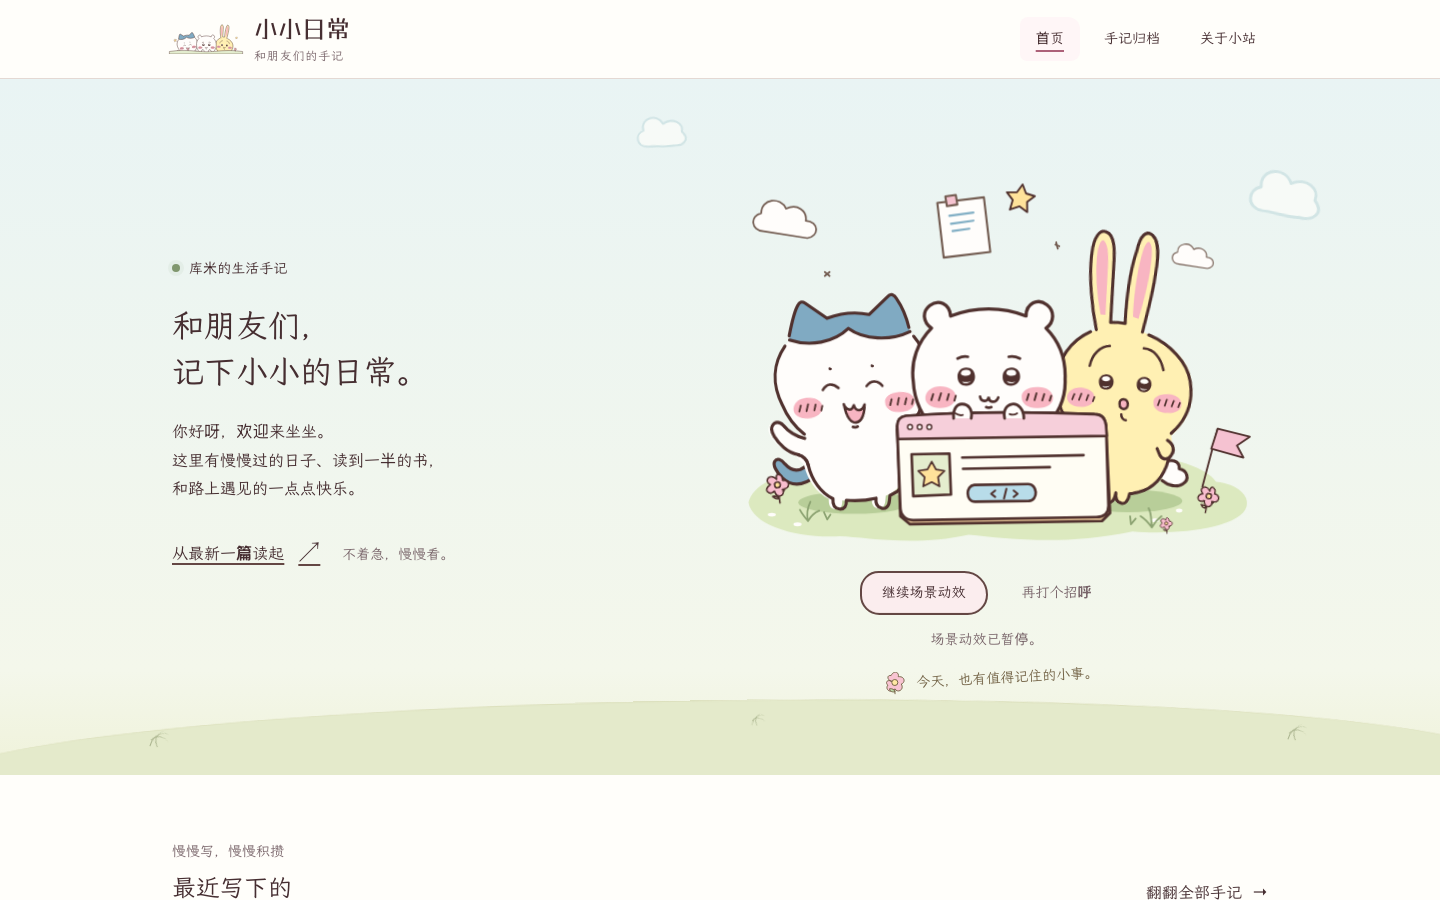
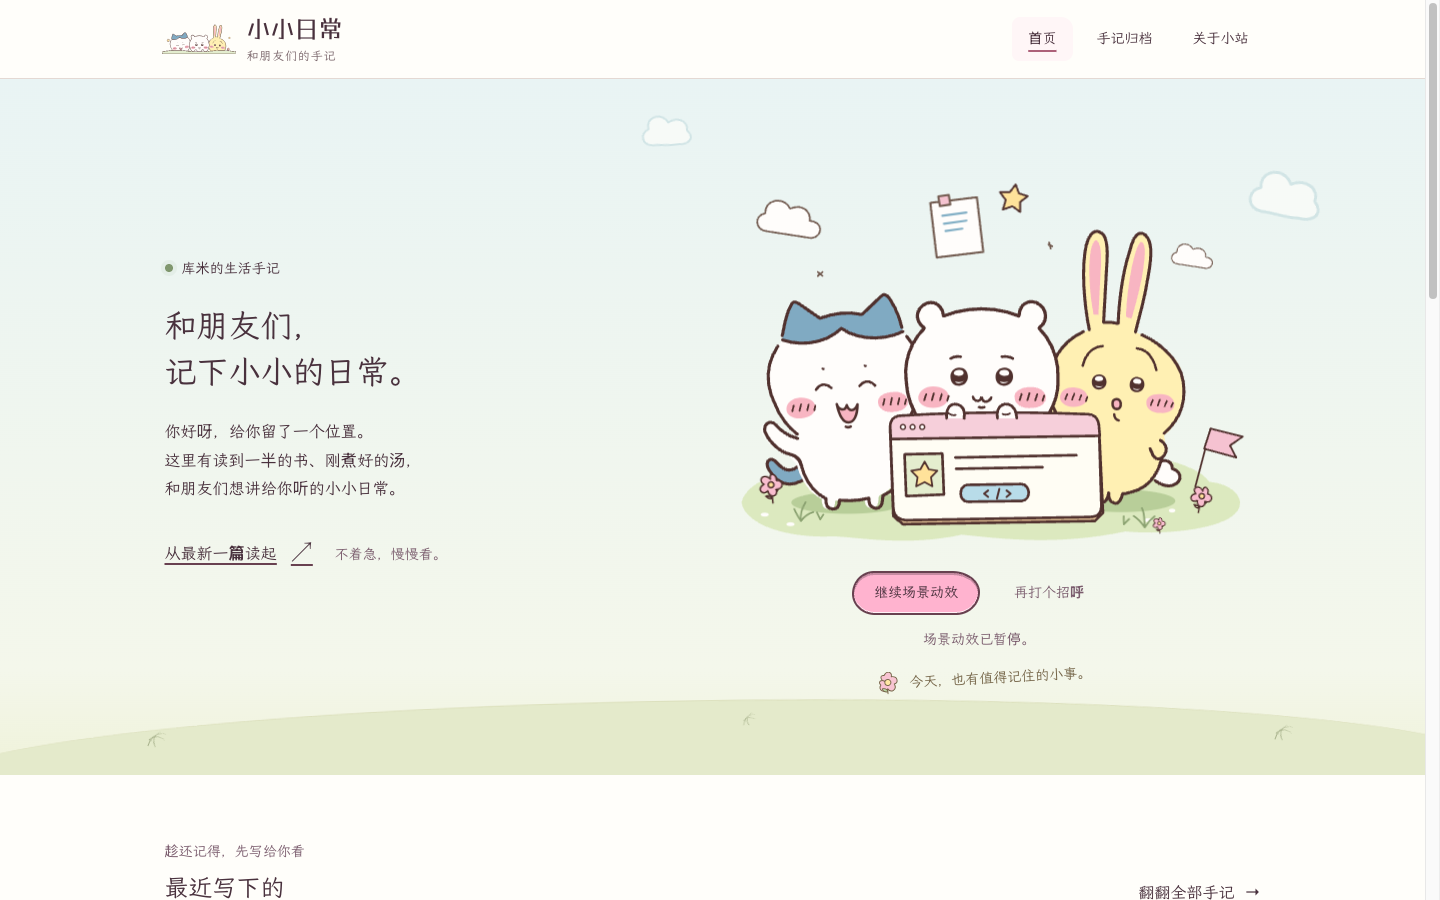
docs: 更新项目说明与文档站截图
更新项目定位、现有组件与素材能力说明，保留本地试用、兼容性和许可边界。
同步文档站与博客截图、截图来源说明及包描述，便于从仓库入口了解和接入项目。

验证：格式、文档同步和设计约束检查通过；文档站与实际安装包验收通过。

diff --git a/docs/README.md b/docs/README.md
@@ -1,12 +1,16 @@
 # 组件文档
 
+欢迎来到 Yahha 星球。朋友们给你的点子留了个位置，一起挑几个组件，把故事搭进页面。
+
+Yahha UI 是一套漫画手账风 React 组件库，面向个人博客、个人主页与内容网站。这里收录组件示例、API 与接入说明，从第一个按钮开始，逐步搭出自己的页面。
+
 首次了解这套组件库，可先看[项目介绍与实际界面](../README.md)；[完整博客](../examples/blog/README.md)、[静态部署](deployment.md)与[素材分发范围](assets-and-distribution.md)分别说明场景接入、网站输出和素材来源。
 
-组件视觉总览（站内路由 `#/components`）将 29 个 UI 组件按通用、排版、布局、表单、内容展示、导航、浮层、反馈分为八组；ThemeProvider 作为独立的主题配置入口。先看真实样式小样，再进入对应示例与 API；搜索和分类保留在总览 URL，浏览器返回后可以接着查看。页面复用 `component-catalog.ts` 的目录与分类，不维护另一份组件清单。
+组件总览（站内路由 `#/components`）将 29 个 UI 组件按通用、排版、布局、表单、内容展示、导航、浮层、反馈分为八组；ThemeProvider 作为独立的主题配置入口。先看真实样式小样，再进入对应示例与 API；搜索和分类保留在总览 URL，浏览器返回后可以接着查看。页面复用 `component-catalog.ts` 的目录与分类，不维护另一份组件清单。
 
 在仓库根目录完成 `npm ci` 后运行 `npm run dev`，打开终端输出的本地地址。将本文的 `#/...` 追加在该地址后即可访问相应交互页面；Markdown 链接直接指向仓库文件，便于在 GitHub 阅读。站内提供 30 个独立组件文档入口（29 个 UI 组件与 ThemeProvider）、95 个实时 TSX 示例、API 表格、入门、样式与状态场景指南。本文索引覆盖 30 份组件 Markdown，每个文档入口都有对应文件。组合示例包括[文章编辑与管理源码](../playground/src/examples/scenes/ArticleActions.tsx)（`#/guides/states?section=article-actions`）和[个人博客归档源码](../playground/src/examples/scenes/BlogArchive.tsx)（`#/guides/states?section=archive`）。
 
-[设计语言](design-language.md) 说明漫画手账的深墨轮廓，以及按钮、白底字段、纸签、栏目和便笺浮层的结构差异。文档站统一呈现奶白、暖墨与轻粉的默认语言；三套角色配色在 ThemeProvider 文档中作为可选预设展示。
+[设计语言](design-language.md) 说明漫画手账的深墨轮廓，以及按钮、白底字段、纸签、栏目和便笺浮层的结构差异。文档站以天空蓝组织场景，以白纸、暖墨与轻粉承载阅读和操作；三套角色配色在 ThemeProvider 文档中作为可选预设展示。
 
 设计规范（`#/guides/design-baseline`，见[表单组合源码](../playground/src/examples/design/DesignBaseline.tsx)与[阅读组合源码](../playground/src/examples/design/DesignReading.tsx)）用默认组件展示表单状态、36 / 44 / 52px 按钮尺度与 16px 正文阅读。两份自包含 TSX 不重写组件外观；可操作状态、原始代码与完整接入同时提供。
 
@@ -22,7 +26,7 @@
 
 完整小站在同仓库的[博客示例](../examples/blog/README.md)，从根目录运行 `npm run dev:blog`；自己的应用则安装 `.tgz`，不需要复制整个文档站或博客。
 
-小图标、状态场景和欢迎动效见“小日常 SVG”（`#/guides/artwork`，[指南源码](../playground/src/docs/artwork-guide.tsx)）。基础包不包含这些可选素材：静态 SVG 可直接作为图片使用；动效 SVG 内置播放，外部按钮无法控制其内部时间线；需要暂停当前帧或重播挥手时，复制该指南的完整欢迎示例与配套静态 SVG。现有动效遵循系统减少动效设置，实际等待结束时应切回静态图。素材来源与派生关系见[SVG 说明](../playground/src/examples/scenes/artwork/little-days/README.md)。
+小图标、状态场景和欢迎动效见“图标与插画”（`#/guides/artwork`，[指南源码](../playground/src/docs/artwork-guide.tsx)）。基础包不包含这些可选素材：静态 SVG 可直接作为图片使用；动效 SVG 内置播放，外部按钮无法控制其内部时间线；需要暂停当前帧或重播挥手时，复制该指南的完整欢迎示例与配套静态 SVG。现有动效遵循系统减少动效设置，实际等待结束时应切回静态图。素材来源与派生关系见[SVG 说明](../playground/src/examples/scenes/artwork/little-days/README.md)。
 
 ## 通用
 
@@ -67,12 +71,12 @@
 - [DropdownMenu](components/dropdown-menu.md)：可通过键盘操作的单层动作菜单，不承担值选择。
 
 - [Dialog](components/dialog.md)：受控模态弹窗、焦点和 Portal。
-- [Popover](components/popover.md)：带标题的非模态补充面板和短表单。
+- [Popover 弹出面板](components/popover.md)：带标题的非模态补充面板和短表单。
 - [Tooltip](components/tooltip.md)：视觉文字补充；沿用 Base UI 1.9 约定，触发器须有自身可访问名称。
 
 ## 反馈
 
-- [Alert](components/alert.md)：留在页面内的说明、结果与错误提示。
+- [Alert 提示条](components/alert.md)：留在页面内的说明、结果与错误提示。
 - [Toast](components/toast.md)：由调用方管理显示状态的提示消息。
 - [EmptyState](components/empty-state.md)：空内容、说明与操作插槽。
 - [Spinner](components/spinner.md)：带可读状态文字的加载指示。

diff --git a/README.md b/README.md
@@ -1,22 +1,26 @@
-# Yahha UI · 朋友们的组件小屋
+# Yahha UI
 
-给个人博客、个人主页和小型内容站点，一点轻盈、温柔的交互。
+**一起做，全宇宙最可爱的 UI 组件库。**
+
+欢迎来到 **Yahha 星球**。朋友们在这里搭界面、写手记，也给新来的你留了个位置。
+
+Yahha UI 是一套漫画手账风 React 组件库，适合博客、个人主页与内容网站。圆润的按钮、像纸签一样的标记，还有便笺般的弹出面板，都在这里等你动手。
 
 [开始使用](#构建与本地安装) · [组件文档](docs/README.md) · [完整博客示例](examples/blog/README.md) · [设计语言](docs/design-language.md) · [静态部署](docs/deployment.md)
 
-**0.0.1 本地试用中** · React / React DOM `^19.3.1` · 29 个 UI 组件与 ThemeProvider · 尚未发布 npm
+**v0.0.1 · 早期预览** · React / React DOM `^19.3.1` · 29 个 UI 组件与 ThemeProvider · 当前通过本地安装包试用，尚未发布 npm
 
-![Yahha UI 文档站首页：朋友们一起搭建小小的网站](docs/images/yahha-home.png)
+![Yahha UI 文档站首页：一起做全宇宙最可爱的 UI 组件库](docs/images/yahha-home.png)
 
-## 朋友们一起搭建、使用的小站
+## 把可爱，搭进你的世界
 
-白纸、暖墨、清亮粉色和浅蓝纸边，组成漫画手账的轮廓。软团按钮、白底字段、分类纸签、栏目墨线与便笺浮层各有用途；人物、天空和草地在入口与小场景里陪伴阅读。
+在这颗星球上，云朵邮局会收到没有署名的信，朋友们会一起帮迷路的小星星找路，也会给晚到的伙伴留一块饼干。界面用白纸、暖墨、清亮粉色和浅蓝纸边接住这些日常；组件各有用途，故事交给你来写。
 
 - **为内容网站准备**：阅读、分类、搜索、收藏与轻量表单可以组合成完整小站。[博客示例](examples/blog/README.md)提供库米的首页、手记归档与文章详情。
-- **组件本身也完整**：组件继承使用方字体，常规控件为 44px，Button / IconButton 有 36 / 44 / 52px 三档；键盘、原生表单、焦点与减少动效按实际组件能力处理。
+- **每次操作，都好好回应**：组件继承使用方字体，常规控件为 44px，Button / IconButton 有 36 / 44 / 52px 三档；键盘、原生表单、焦点与减少动效按实际组件能力处理。
 - **按需加入小场景**：静态 SVG、状态动效和可暂停的欢迎场景独立提供。基础组件不依赖角色图片，组件安装包不包含网站、字体或场景素材。
 
-## 从真实小样找到组件
+## 浏览组件
 
 文档站的组件总览位于 `#/components`，按八类展示现有 29 个 UI 组件，并单列 ThemeProvider 主题配置，共 30 个文档入口。小样进入对应文档后，可操作完整示例、展开代码并查阅 API；当前共 95 个同源 TSX 示例。
 
@@ -65,14 +69,14 @@ export default function App() {
   return (
     <ThemeProvider theme="chiikawa">
       <Button aria-pressed={saved} onClick={() => setSaved(!saved)}>
-        {saved ? '已收藏' : '收藏这篇文章'}
+        收藏这篇文章
       </Button>
     </ThemeProvider>
   );
 }
 ```
 
-启动应用后，点击或用 Space 操作按钮，可在“收藏这篇文章”和“已收藏”之间切换。
+启动应用后，点击或用 Space 操作“收藏这篇文章”按钮，可切换收藏状态。操作名称保持稳定，选中状态通过按钮外观与 `aria-pressed` 表达。
 
 样式只需在应用入口导入一次；`ThemeProvider` 的 `theme` 必填。默认使用 `chiikawa`，另有 `hachiware`、`usagi` 可选预设，保持同一套尺寸、排版和交互规则。
 
@@ -122,7 +126,7 @@ npm run build:blog
 
 这是非官方同人项目。组件代码、人物 SVG、道具、PNG、字体和页面截图分别记录来源与分发位置；代码的最终许可证与角色素材的完整许可清单尚未确定。已有字体 OFL 声明仅对应相应字体。
 
-[素材与分发范围](docs/assets-and-distribution.md)汇总实际目录、原始记录、派生关系与当前许可状态。[小日常 SVG](playground/src/examples/scenes/artwork/little-days/README.md)说明静态、动效及欢迎控制器的使用区别。
+[素材与分发范围](docs/assets-and-distribution.md)汇总实际目录、原始记录、派生关系与当前许可状态。[图标与插画](playground/src/examples/scenes/artwork/little-days/README.md)说明静态、动效及欢迎控制器的使用区别。
 
 ## 参与开发
 

diff --git a/CONTRIBUTING.md b/CONTRIBUTING.md
@@ -36,7 +36,7 @@ Button、IconButton、TextField、Select、Textarea、Checkbox、RadioGroup、Sw
 
 库内相对模块路径使用 `.js` 扩展名，使构建后的多文件声明可被 Bundler 与 NodeNext 解析。公开 Props 与实际默认值是 API 契约依据；站内说明、API 与示例组织在 `playground/src/docs/components/` 维护，组件 Markdown 由 `npm run sync:docs` 生成。公共接口变更需核对属性名、类型、必填项、默认值、原生属性及 ref 的作用目标，并检查源码导出和使用方示例。站内预览与展示源码使用同一个 TSX，Markdown 的原始示例也由同一页面生成，两者均由真实安装包验收编译。页面元信息变更时同步 component-catalog。
 
-组件目录与总览按通用、排版、布局、表单、内容展示、导航、浮层、反馈八组组织 29 个 UI 组件，ThemeProvider 单列为主题配置；元信息只在目录维护，文档按组件独立加载。TextField、SegmentedControl、ThemeProvider 的中文名称分别统一为“单行输入”“分段选择”“主题配置”，英文导出名和路由保持稳定。
+组件目录与总览按通用、排版、布局、表单、内容展示、导航、浮层、反馈八组组织 29 个 UI 组件，ThemeProvider 单列为主题配置；元信息只在目录维护，文档按组件独立加载。TextField、SegmentedControl、ThemeProvider 的中文名称分别统一为“单行输入”“分段选择”“主题配置”；Popover 使用“弹出面板”，Alert 使用“提示条”，旧称保留为搜索别名。英文导出名和路由保持稳定。
 
 组件使用文档描述当前用途、示例、API 和交互约定，不混入“本轮复核”“保留既有”“不计新增”等开发过程表述。设计原则和视觉规则集中在设计语言文档；文档不承诺尚未实现或验证的能力。
 

diff --git a/docs/design-language.md b/docs/design-language.md
@@ -1,6 +1,8 @@
 # 设计语言
 
-Yahha UI 用于个人博客、个人主页与小型资讯站点，以“朋友们一起搭建、使用的小站”为品牌场景。基础组件延续“漫画手账”语言：清楚的暖墨轮廓、像软团按扣一样饱满的主操作、平整白纸内容面，以及清亮粉色与浅蓝纸边。不同组件按用途分出按钮、纸签、字段、栏目与便笺，让文章、照片和人的表达占据主要位置。角色通过共同活动、探头和章节小图案参与网站，基础组件自身保留完整的轮廓、排版和状态。
+Yahha UI 是一套漫画手账风 React 组件库，面向个人博客、个人主页与内容网站。品牌愿景是「一起做，全宇宙最可爱的 UI 组件库」，长期标语是「把可爱，搭进你的世界」。网站的虚构场景叫「Yahha 星球」：朋友们在草地上留一个位置，等朋友回来，分一块点心，帮迷路的星星找路。宇宙承载愿望，星球安放日常，天真烂漫来自朋友之间具体的小动作。
+
+基础组件延续“漫画手账”语言：清楚的暖墨轮廓、像软团按扣一样饱满的主操作、平整白纸内容面，以及清亮粉色与浅蓝纸边。不同组件按用途分出按钮、纸签、字段、栏目与便笺，让文章、照片和人的表达占据主要位置。角色通过共同活动、探头和章节小图案参与网站，基础组件自身保留完整的轮廓、排版和状态。正式产品名为 Yahha UI，Yahha 星球是承载这些场景的想象空间。品牌与文字的使用规则见[组件文档规范](documentation.md#品牌与文案)。
 
 ## 品牌、组件与素材的分工
 

diff --git a/docs/images/README.md b/docs/images/README.md
@@ -2,6 +2,8 @@
 
 本目录用于 GitHub README 展示，截图来自当前实际运行的 Yahha UI 文档站和博客，没有从参考网站截取或拼接角色素材。
 
+最近更新：2026-10-30。文档首页和组件视觉总览已按下列路由与视口重新拍摄，同步 F2「组件碰碰乐」Logo，不带副标题；博客和手机阅读截图沿用此前版本，本次没有重拍。
+
 - [文档首页](yahha-home.png)：文档站 `#/`，1440 × 900。
 - [组件视觉总览](yahha-components.png)：文档站 `#/components`，1440 × 1000。
 - [小小日常博客](yahha-blog.png)：博客 `#/`，1440 × 900。
